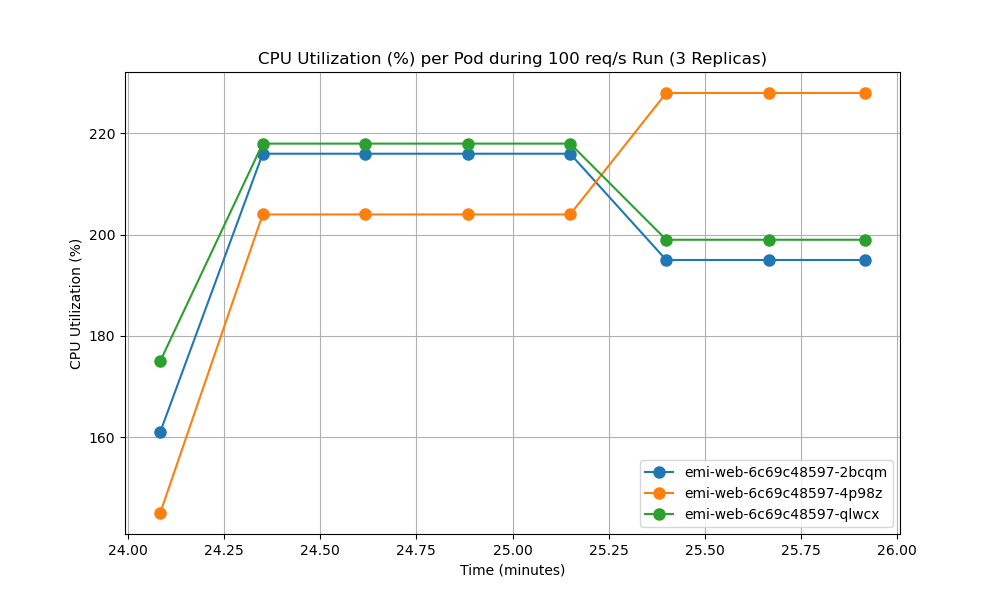
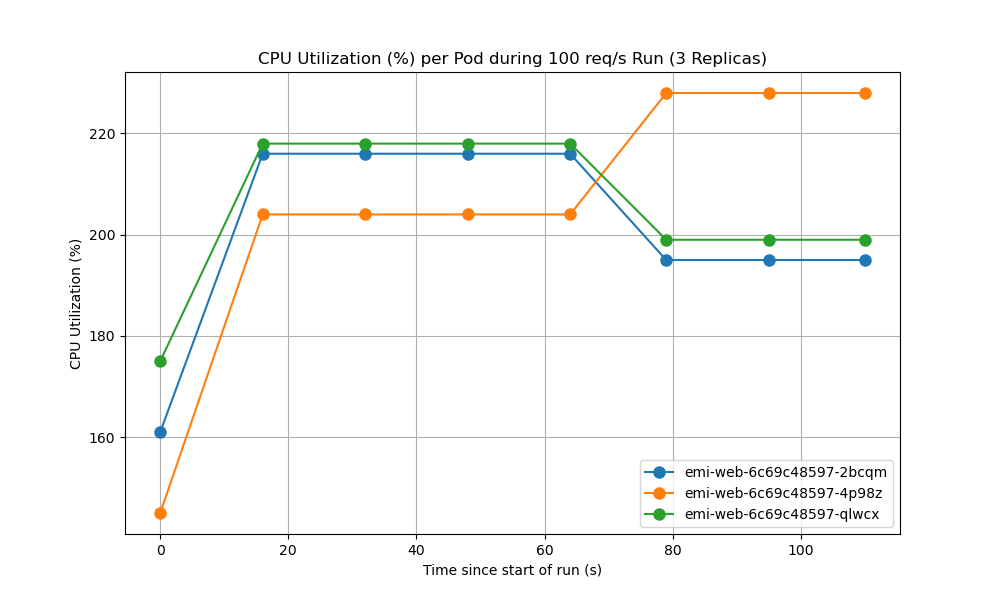
Refined Graph 2 X-axis to relative seconds and added markers

diff --git a/scripts/plot_graphs.py b/scripts/plot_graphs.py
@@ -24,15 +24,19 @@ try:
 except Exception as e:
     print(f"Error creating Graph 1: {e}")
 
-# Graph 2 (EXACT 60-SECOND WINDOW: 24 se 26 minute ke darmiyan)
+# Graph 2 (Updated to use relative seconds)
 try:
     metrics_path = os.path.join(raw_dir, 'cpu_memory_metrics.csv')
     df_metrics = pd.read_csv(metrics_path)
     start_time = df_metrics['timestamp'].min()
     df_metrics['time_min'] = (df_metrics['timestamp'] - start_time) / 60.0
     
-    # Yahan humne exact 24.0 se 26.0 minute ka filter lagaya hai
+    # Filter window (24 to 26 minutes)
     df_metrics = df_metrics[(df_metrics['time_min'] >= 24.0) & (df_metrics['time_min'] <= 26.0)]
+    
+    # CLAUDE'S FIX: Relative time in seconds starting from 0
+    min_time_window = df_metrics['timestamp'].min()
+    df_metrics['time_sec'] = df_metrics['timestamp'] - min_time_window
     
     df_metrics['cpu_val'] = df_metrics['cpu'].str.replace('m', '').astype(float)
     df_metrics['cpu_pct'] = (df_metrics['cpu_val'] / 100.0) * 100 
@@ -40,11 +44,10 @@ try:
     plt.figure(figsize=(10, 6))
     for pod in df_metrics['pod_name'].unique():
         pod_data = df_metrics[df_metrics['pod_name'] == pod]
-        # marker='o' se dots lag jayenge
-        plt.plot(pod_data['time_min'], pod_data['cpu_pct'], marker='o', markersize=8, label=pod)
+        plt.plot(pod_data['time_sec'], pod_data['cpu_pct'], marker='o', markersize=8, label=pod)
         
     plt.title('CPU Utilization (%) per Pod during 100 req/s Run (3 Replicas)')
-    plt.xlabel('Time (minutes)')
+    plt.xlabel('Time since start of run (s)')
     plt.ylabel('CPU Utilization (%)')
     plt.legend()
     plt.grid(True)
